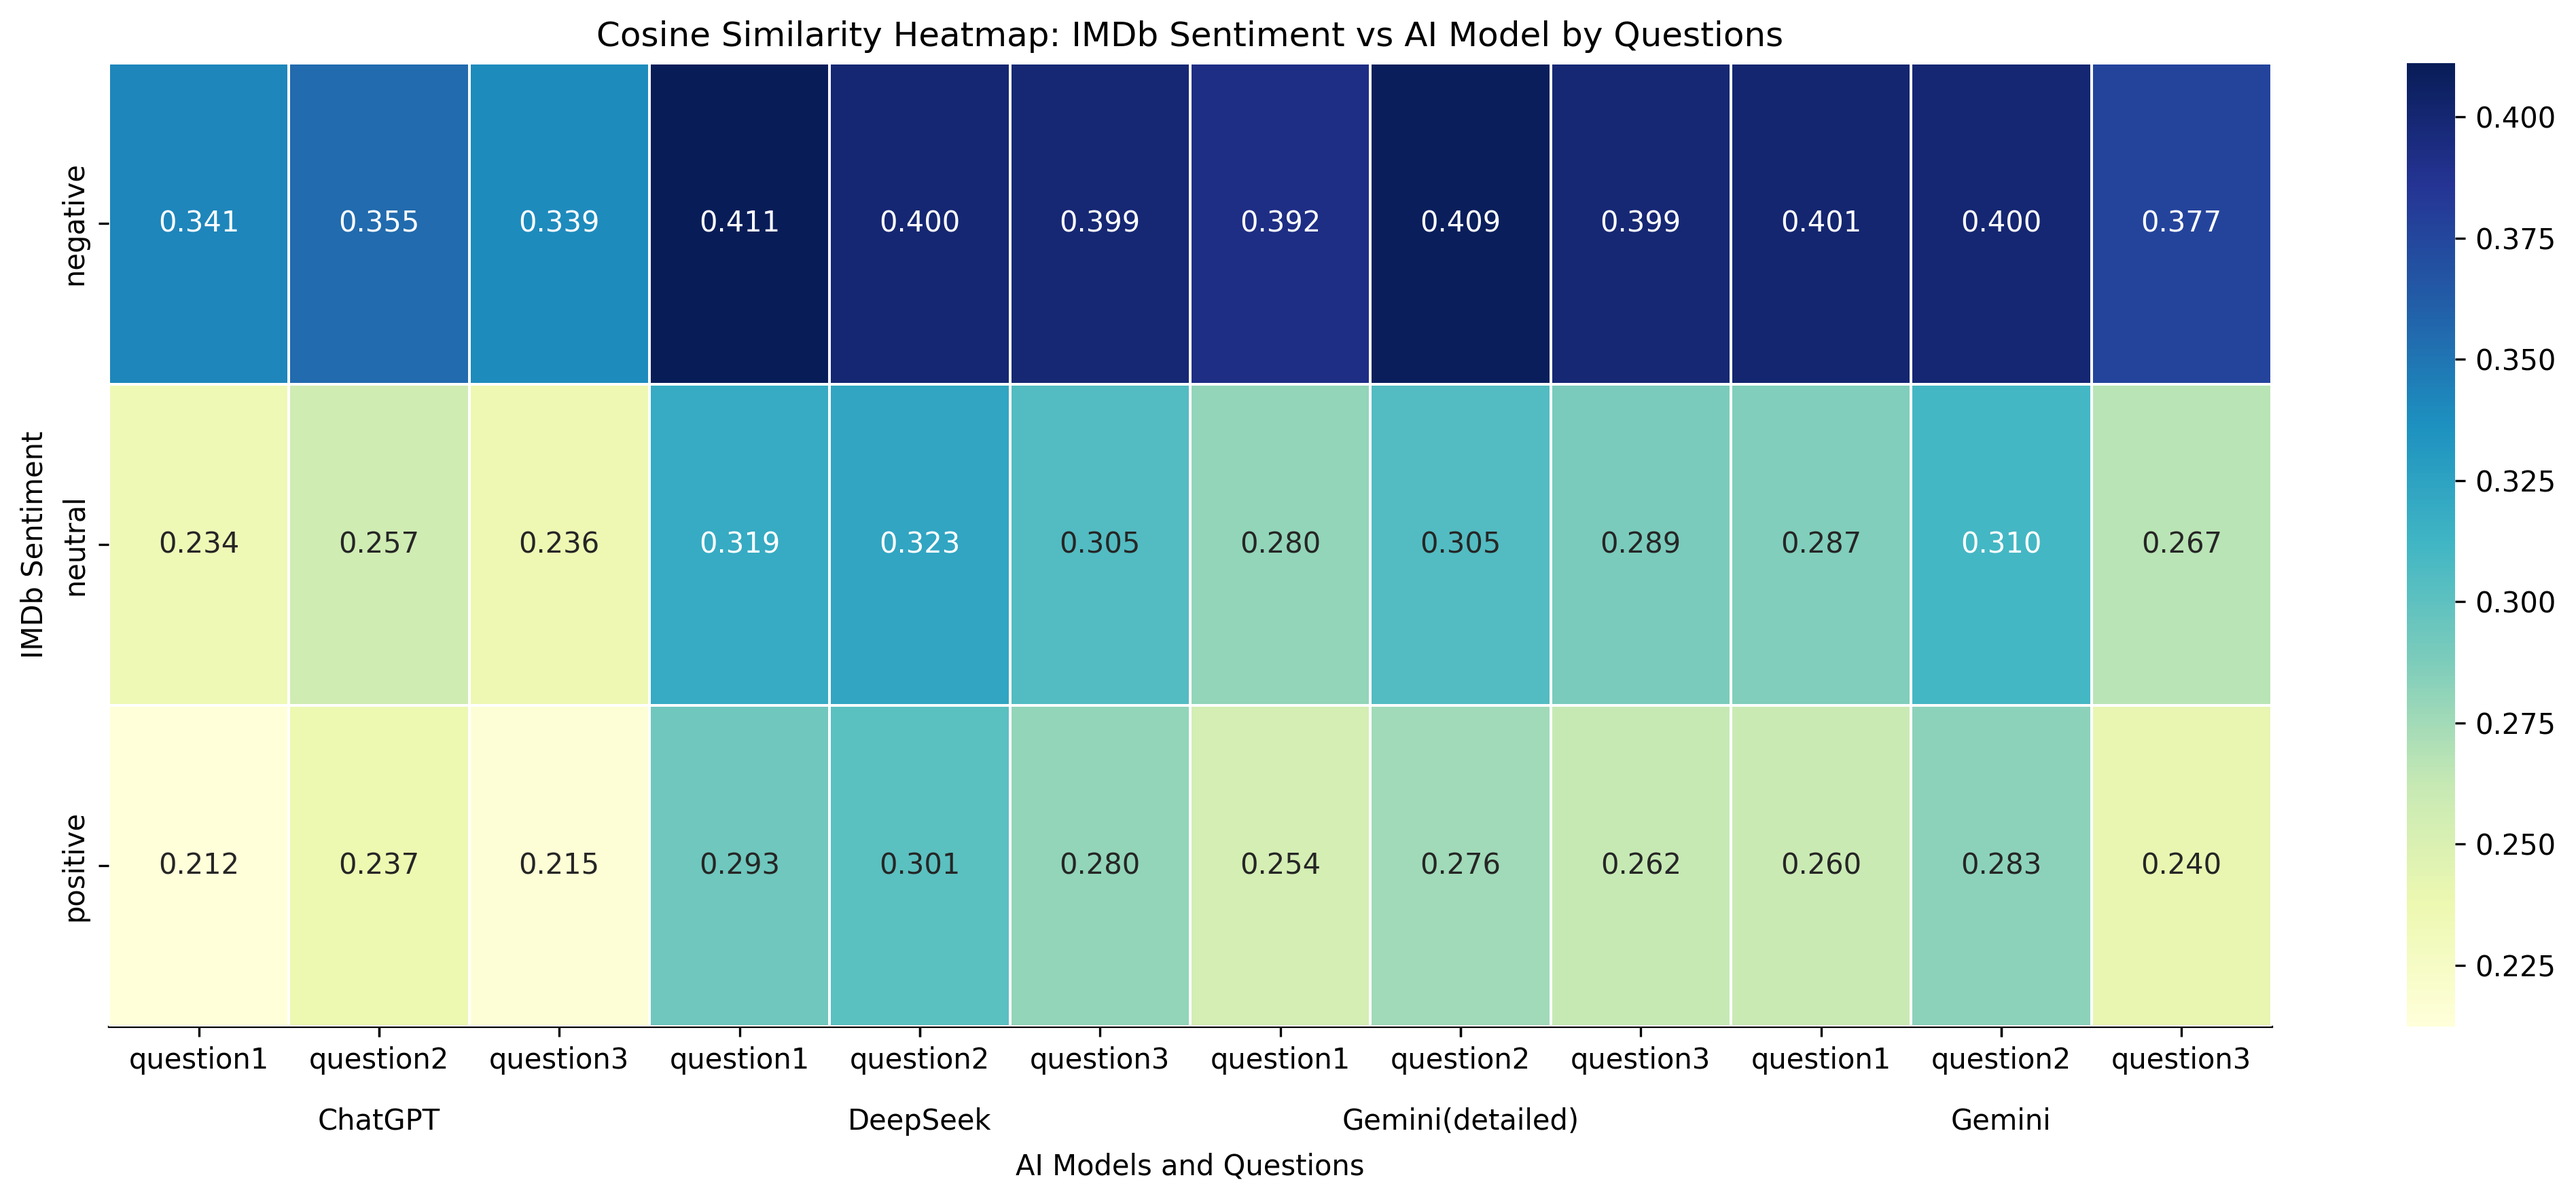
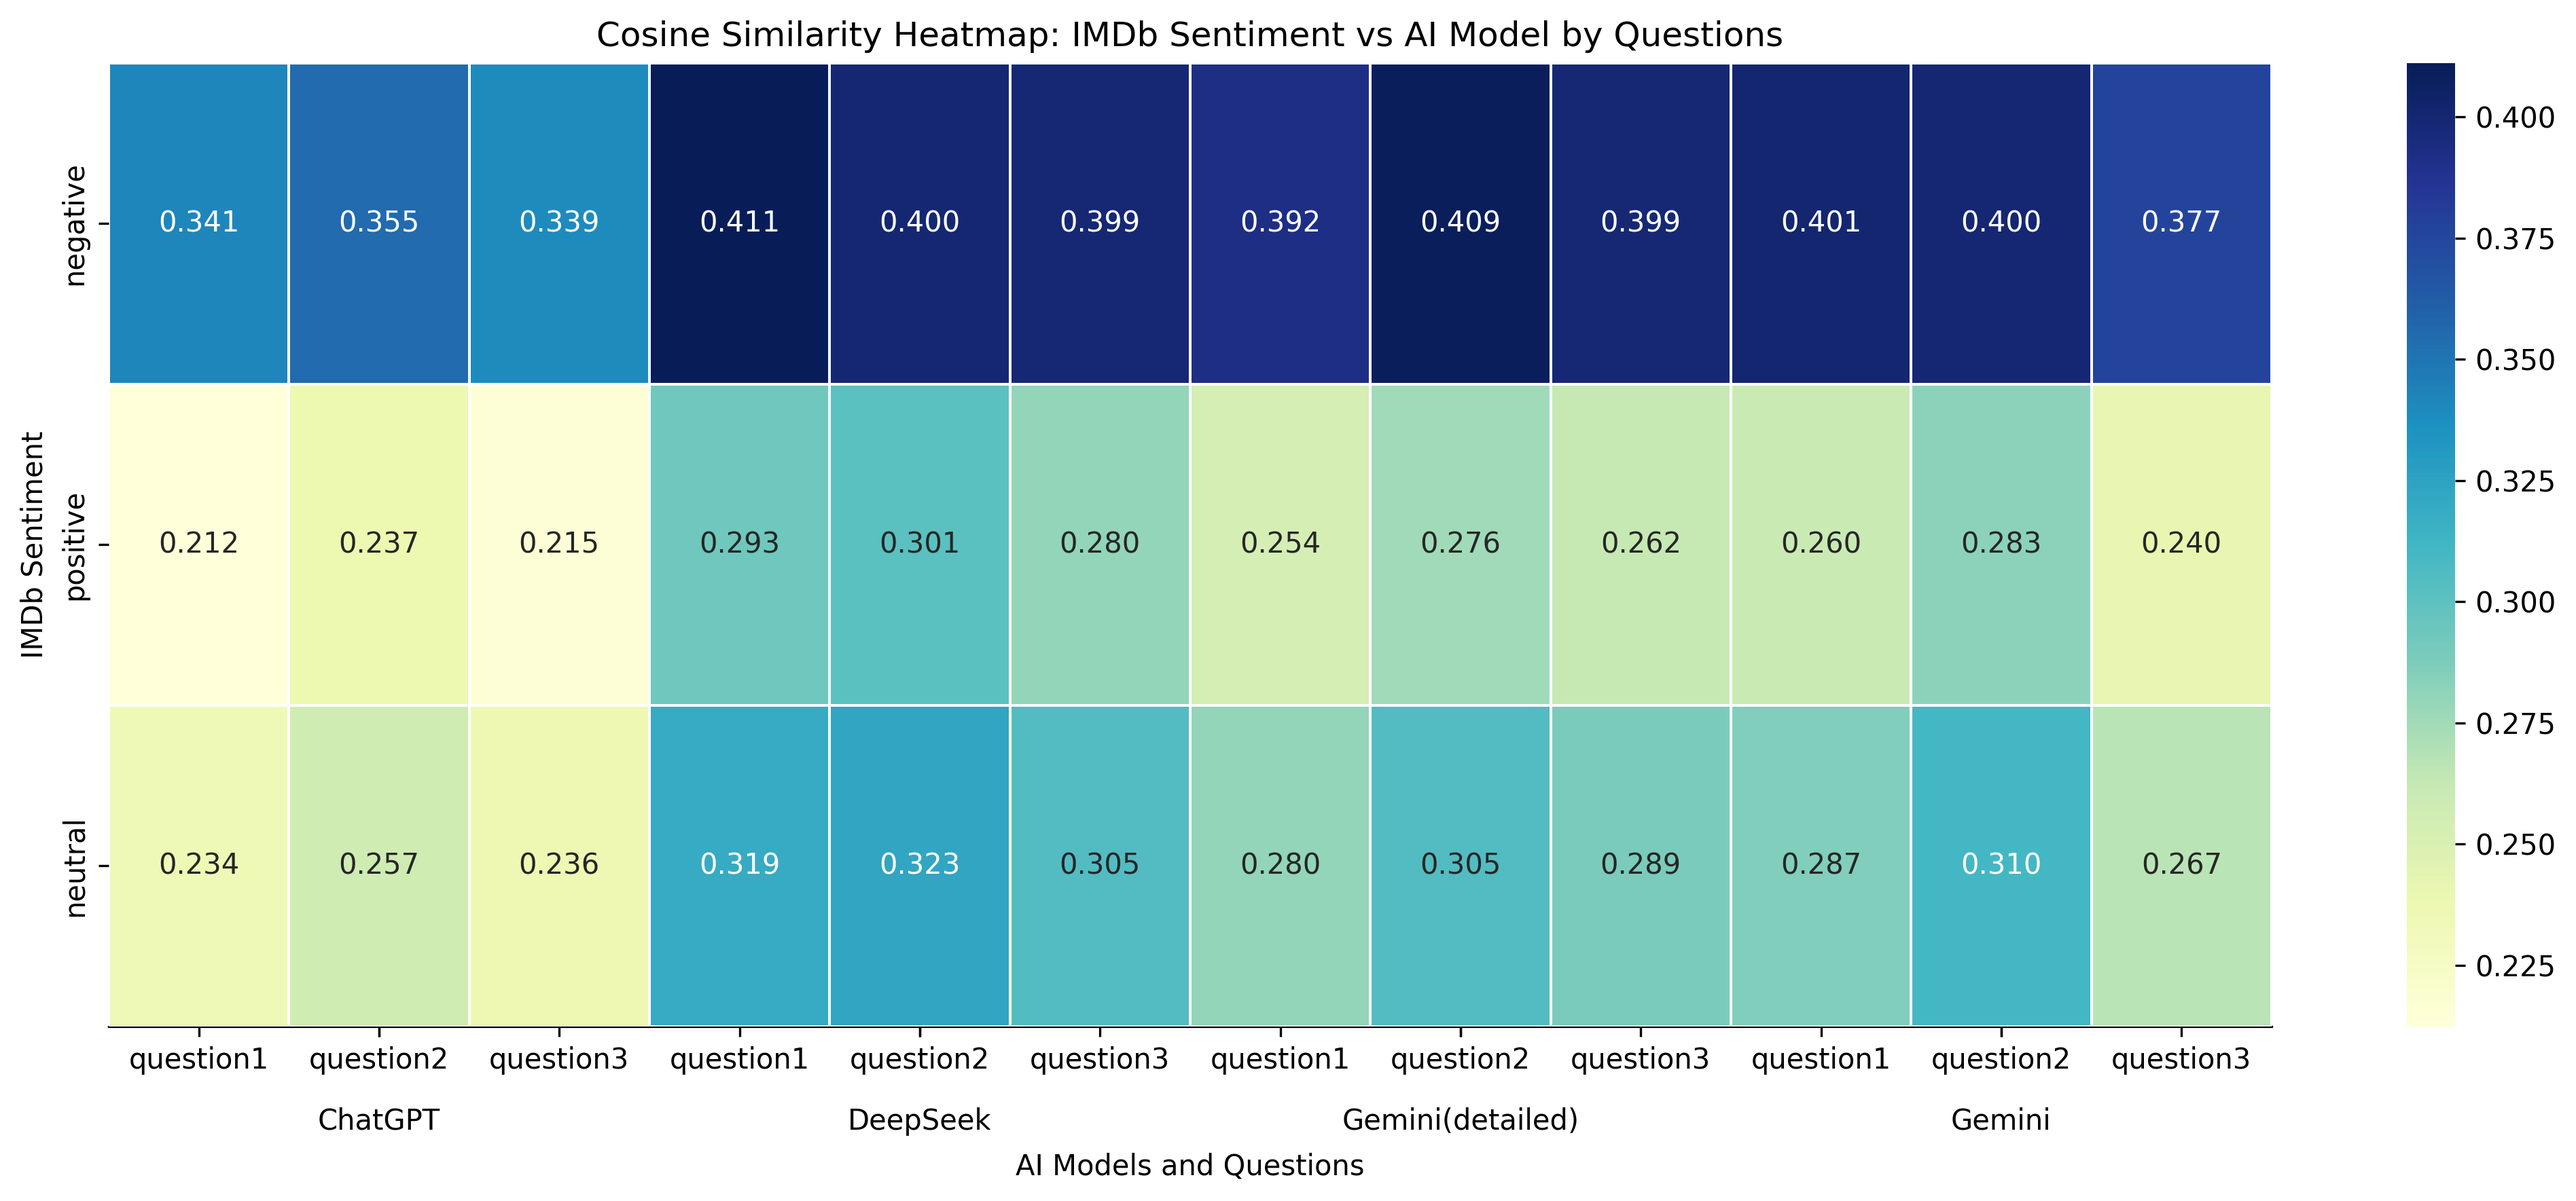
update the fig

diff --git a/visualization/cosine_similarity_by_question.py b/visualization/cosine_similarity_by_question.py
@@ -71,6 +71,7 @@ df_deepseek = flatten_ai_reviews('../reviews_ai/subtitles/aireviews_deepseek.csv
 df_gemini = flatten_ai_reviews('../reviews_ai/subtitles/aireviews_gemini.csv', 'Gemini')
 df_gemini_ctx = flatten_ai_reviews('../reviews_ai/subtitles/aireviews_gemini_context_variation.csv', 'Gemini(detailed)')
 
+
 df_all = pd.concat([df_chatgpt, df_deepseek, df_gemini, df_gemini_ctx], ignore_index=True)
 
 # df_all.groupby("question")["review"].apply(lambda x: " ".join(x.tolist())[:500])
@@ -106,14 +107,16 @@ for sentiment in ['positive', 'neutral', 'negative']:
 
 # Output results
 df_result = pd.DataFrame(results)
-print(df_result)
+# print(df_result)
 
-# -----------Heat Mpap -----------
+# -----------Heat Map -----------
 # create a source_question column
 df_result["source_question"] = df_result["source"] + "_" + df_result["question"]
 
 # Pivot for heatmap
 heatmap_df = df_result.pivot(index="sentiment", columns="source_question", values="mean_cosine_similarity")
+# Reorder the index (rows)
+heatmap_df = heatmap_df.reindex(["negative", "positive", "neutral"])
 
 # Plot heatmap
 # Corrected version using set_xticklabels for the secondary axis
@@ -139,6 +142,3 @@ plt.tight_layout()
 plt.savefig("similarity_comparison_by questions(subtitles).png", dpi=300, bbox_inches="tight")
 plt.show()
 
-
-
-# -----------Grouped Bar Plot -----------
